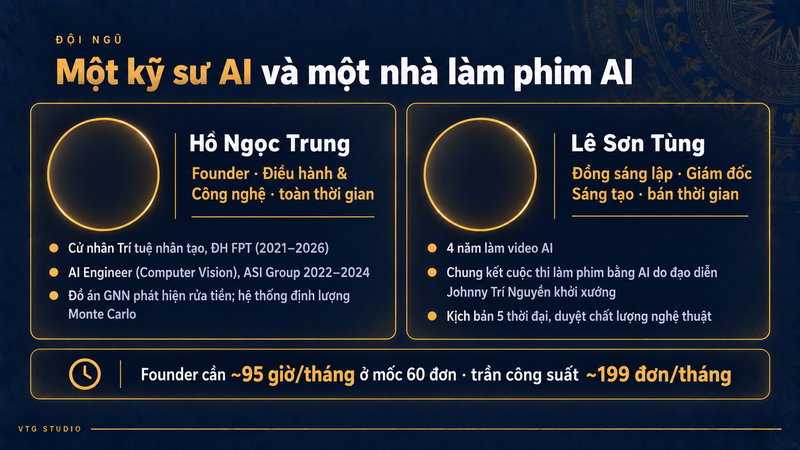
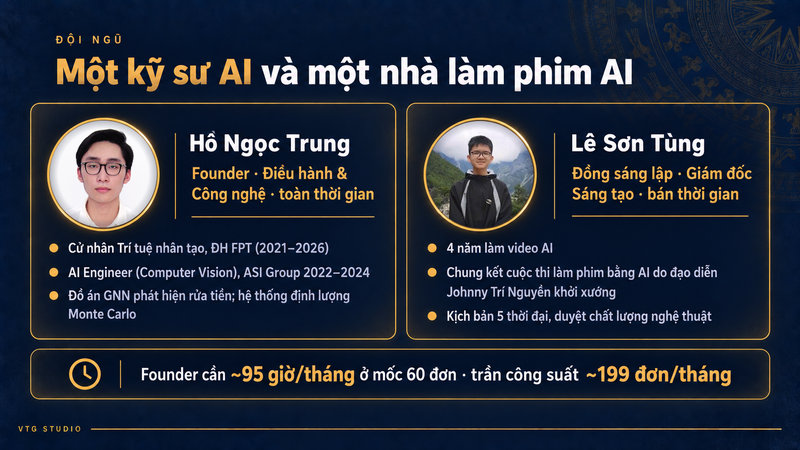
Slide 12: thêm ảnh chân dung Trung và Tùng

Changed region(s): [[0.5312, 0.2489, 0.6875, 0.5289], [0.0625, 0.2489, 0.2188, 0.5289]]

diff --git a/index.html b/index.html
@@ -106,6 +106,9 @@ const N = 14;
 const SLIDES = ["img/slide01.jpg", "img/slide02.jpg", "img/slide03.jpg", "img/slide04.png", "img/slide05.png", "img/slide06.png", "img/slide07.png", "img/slide08.png", "img/slide09.png", "img/slide10.png", "img/slide11.png", "img/slide12.png", "img/slide13.png", "img/slide14.png"];
 /* Ảnh nhỏ cho nền mờ và lưới xem nhanh; ảnh nét cao chỉ tải khi cần */
 const THUMBS = SLIDES.map(s => s.replace('img/', 'img/thumb/').replace(/\.png$/, '.jpg'));
+/* Mã phiên bản: đổi mỗi lần thay ảnh để trình duyệt không dùng bản cũ */
+const V = '?v=20261008b';
+for (let i = 0; i < SLIDES.length; i++) { SLIDES[i] += V; THUMBS[i] += V; }
 /* Phim thật cho 2 khung trống ở slide 4 — đặt file vào thư mục video/ với đúng tên dưới đây */
 const VIDEOS = {
   4: [
